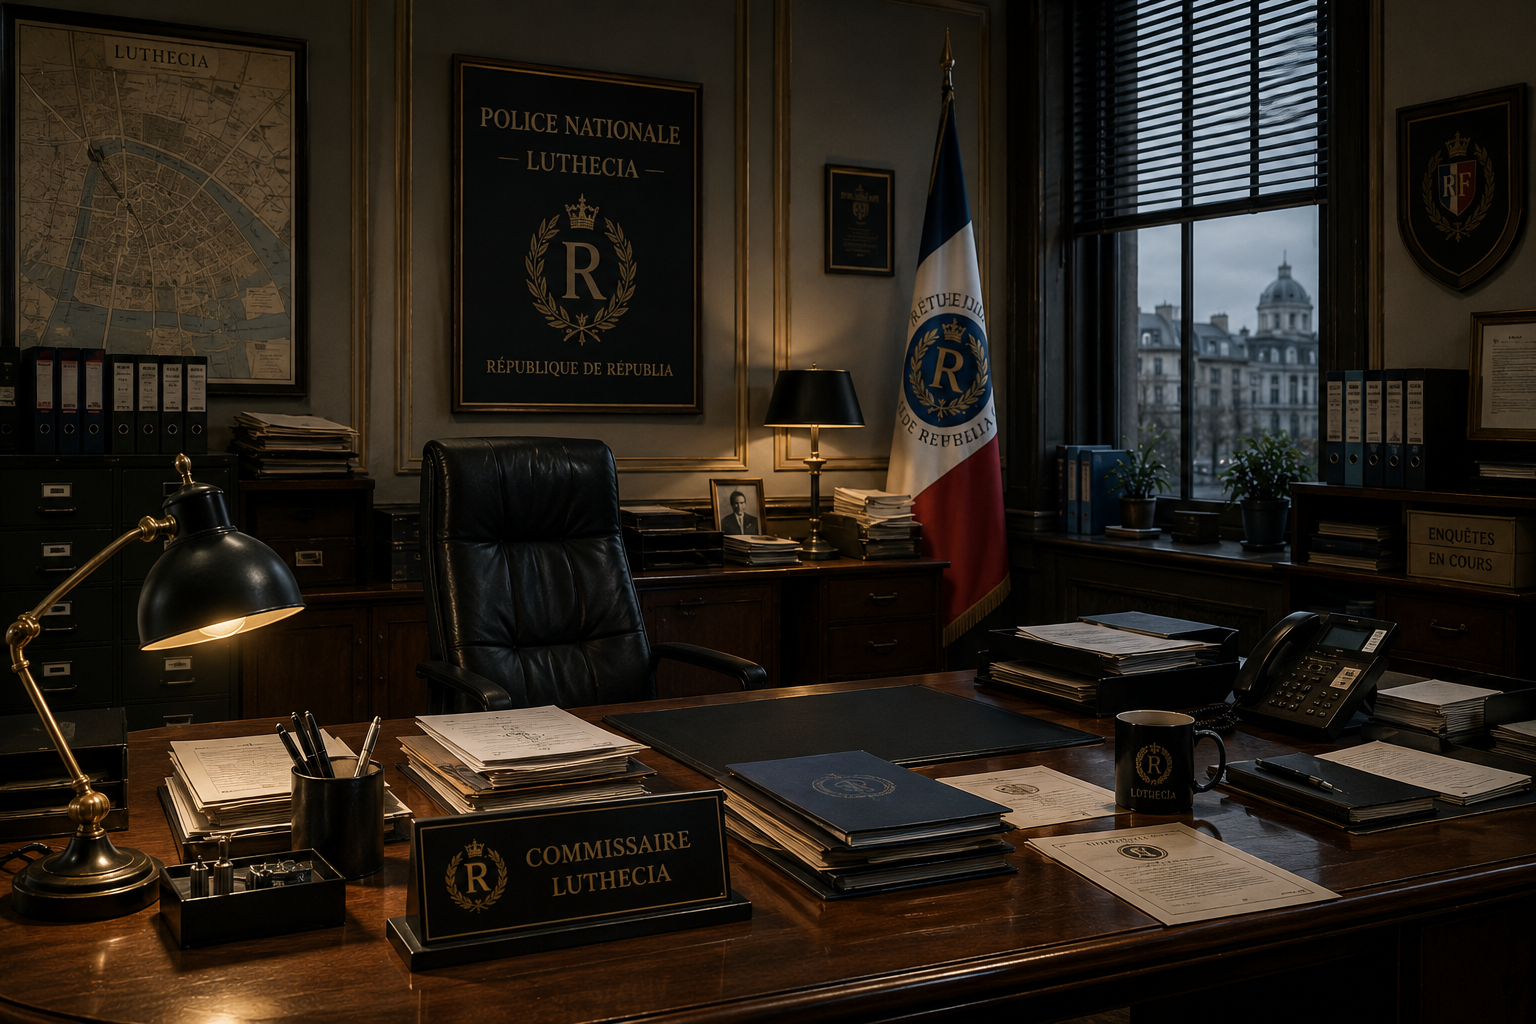
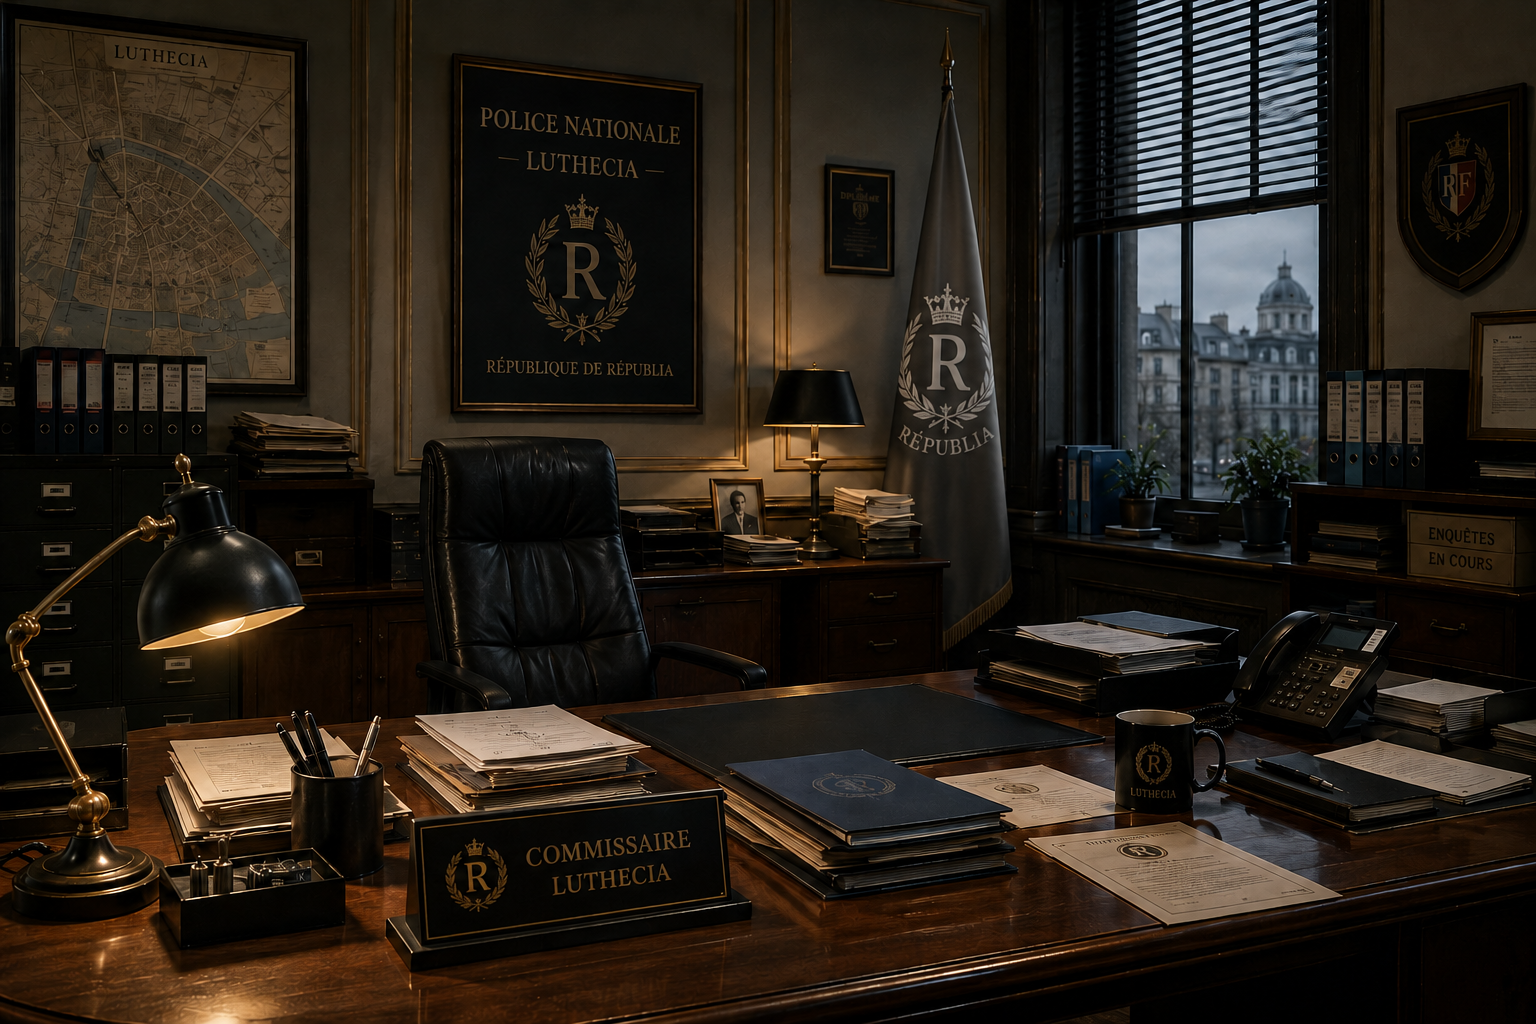
Nettoyage beta : 2 images remplacees, 3 faux PJ [SIM] retires
1) Images (remplacement de contenu, chemins/noms de fichiers inchanges --
   aucune reference de code a modifier) :
   - images/commissariat-bureau-commissaire.png (Luthecia, Bureau du
     Commissaire, room bureau_commissaire de data.js) : nouvelle version
     avec le drapeau republien gris.
   - images/rue-musees-luthecia.png (Luthecia, rue devant les musees, noeud
     luthecia-musees de plateau-rue-centrale.js) : nouvelle version avec les
     bannieres republiennes grises. Format/dimensions identiques (PNG
     1536x1024) aux deux fichiers remplaces.

2) PJ_SIMULES (data.js) : les 3 profils de demonstration (Alexandre Moreau,
   Sophie Leroux, Viktor Krasov) retires -- ils s'affichaient comme de vrais
   PJ suffixes "[SIM]" dans les pieces de la capitale aux yeux des vrais
   joueurs (plateau-multijoueur.js, renderPersonsList via
   getSimulesPresents()). Source reelle identifiee : tableau JS statique
   (fallback client, jamais persiste en Supabase -- state.pjSimules est
   recree a chaque chargement via JSON.parse(JSON.stringify(PJ_SIMULES)),
   jamais mis en cache localStorage). Tableau vide plutot que supprime :
   l'infrastructure de simulation (initSimulation/getSimulesPresents/
   ouvrirPanneauSimulation/deplacerSimule*, plateau-pnj.js, jamais reliee a
   aucun ordre du jeu -- outil de test developpeur autonome) reste intacte
   et fonctionnelle pour de futurs profils de test. Verifie au prealable :
[…]

diff --git a/data.js b/data.js
@@ -6952,56 +6952,13 @@ const BUDGETS_INSTITUTIONS = {
 // =====================
 // PJ SIMULATION (mode test multijoueur)
 // =====================
-const PJ_SIMULES = [
-  {
-    name: 'Alexandre Moreau',
-    archetype: 'politician',
-    career: 'magistrat', // migration 18->10 (bêta) : ancien id 'civil' (Haut fonctionnaire), retiré
-    poste: { id: 'depute_1', name: 'Depute' },
-    stats: { INT:12, CHA:13, VOL:10, PER:11, DUP:9, ENT:12 },
-    resources: { inf:45, pop:38, dis:70, hp:90, moral:75 },
-    arg: 8500,
-    country: 'republic',
-    currentCity: 'capitale',
-    currentBuilding: null,
-    isPJ: true,
-    isSimule: true,
-    rel: 'neutral',
-    role: 'Depute — Parti du Centre'
-  },
-  {
-    name: 'Sophie Leroux',
-    archetype: 'informer',
-    career: 'press',
-    poste: null,
-    stats: { INT:13, CHA:11, VOL:9, PER:14, DUP:12, ENT:10 },
-    resources: { inf:30, pop:55, dis:80, hp:95, moral:85 },
-    arg: 3200,
-    country: 'republic',
-    currentCity: 'capitale',
-    currentBuilding: null,
-    isPJ: true,
-    isSimule: true,
-    rel: 'neutral',
-    role: 'Journaliste — La Tribune'
-  },
-  {
-    name: 'Viktor Krasov',
-    archetype: 'shadow',
-    career: 'intel',
-    poste: null,
-    stats: { INT:11, CHA:8, VOL:12, PER:13, DUP:15, ENT:9 },
-    resources: { inf:20, pop:10, dis:95, hp:88, moral:60 },
-    arg: 12000,
-    country: 'republic',
-    currentCity: 'capitale',
-    currentBuilding: null,
-    isPJ: true,
-    isSimule: true,
-    rel: 'neutral',
-    role: 'Agent — Services secrets'
-  }
-];
+// Les 3 profils de demonstration (Alexandre Moreau/Sophie Leroux/Viktor Krasov) retires ici
+// (lot de nettoyage beta) : ils apparaissaient comme de vrais PJ "[SIM]" dans les pieces de la
+// capitale aux yeux des vrais joueurs. L'infrastructure de simulation (initSimulation/
+// getSimulesPresents/ouvrirPanneauSimulation/deplacerSimule*, plateau-pnj.js) reste intacte et
+// fonctionnelle -- elle lit simplement un tableau vide desormais, aucun PJ simule ne s'affiche
+// plus nulle part. Reajouter ici de futurs profils de test si necessaire.
+const PJ_SIMULES = [];
 
 // =====================
 // INDICES NATIONAUX V13
